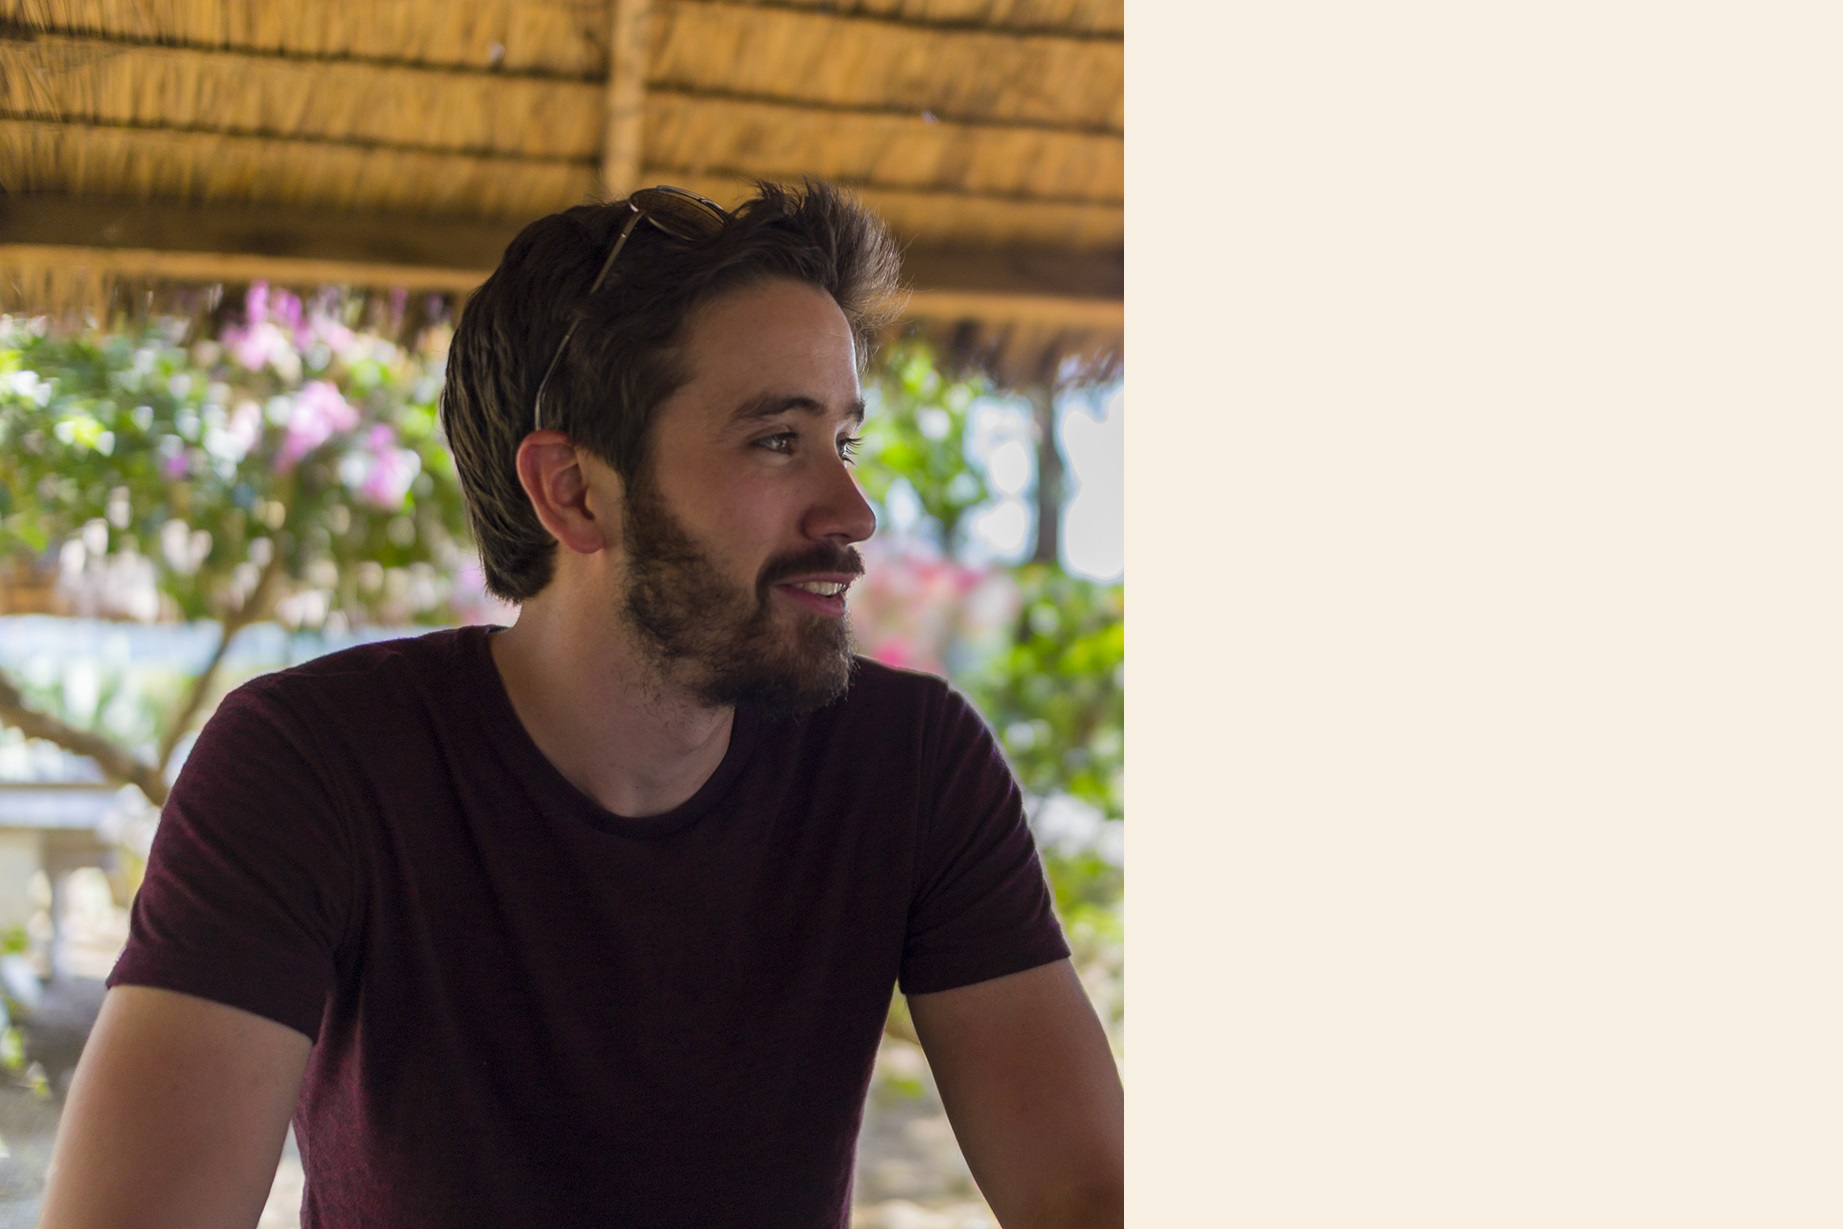
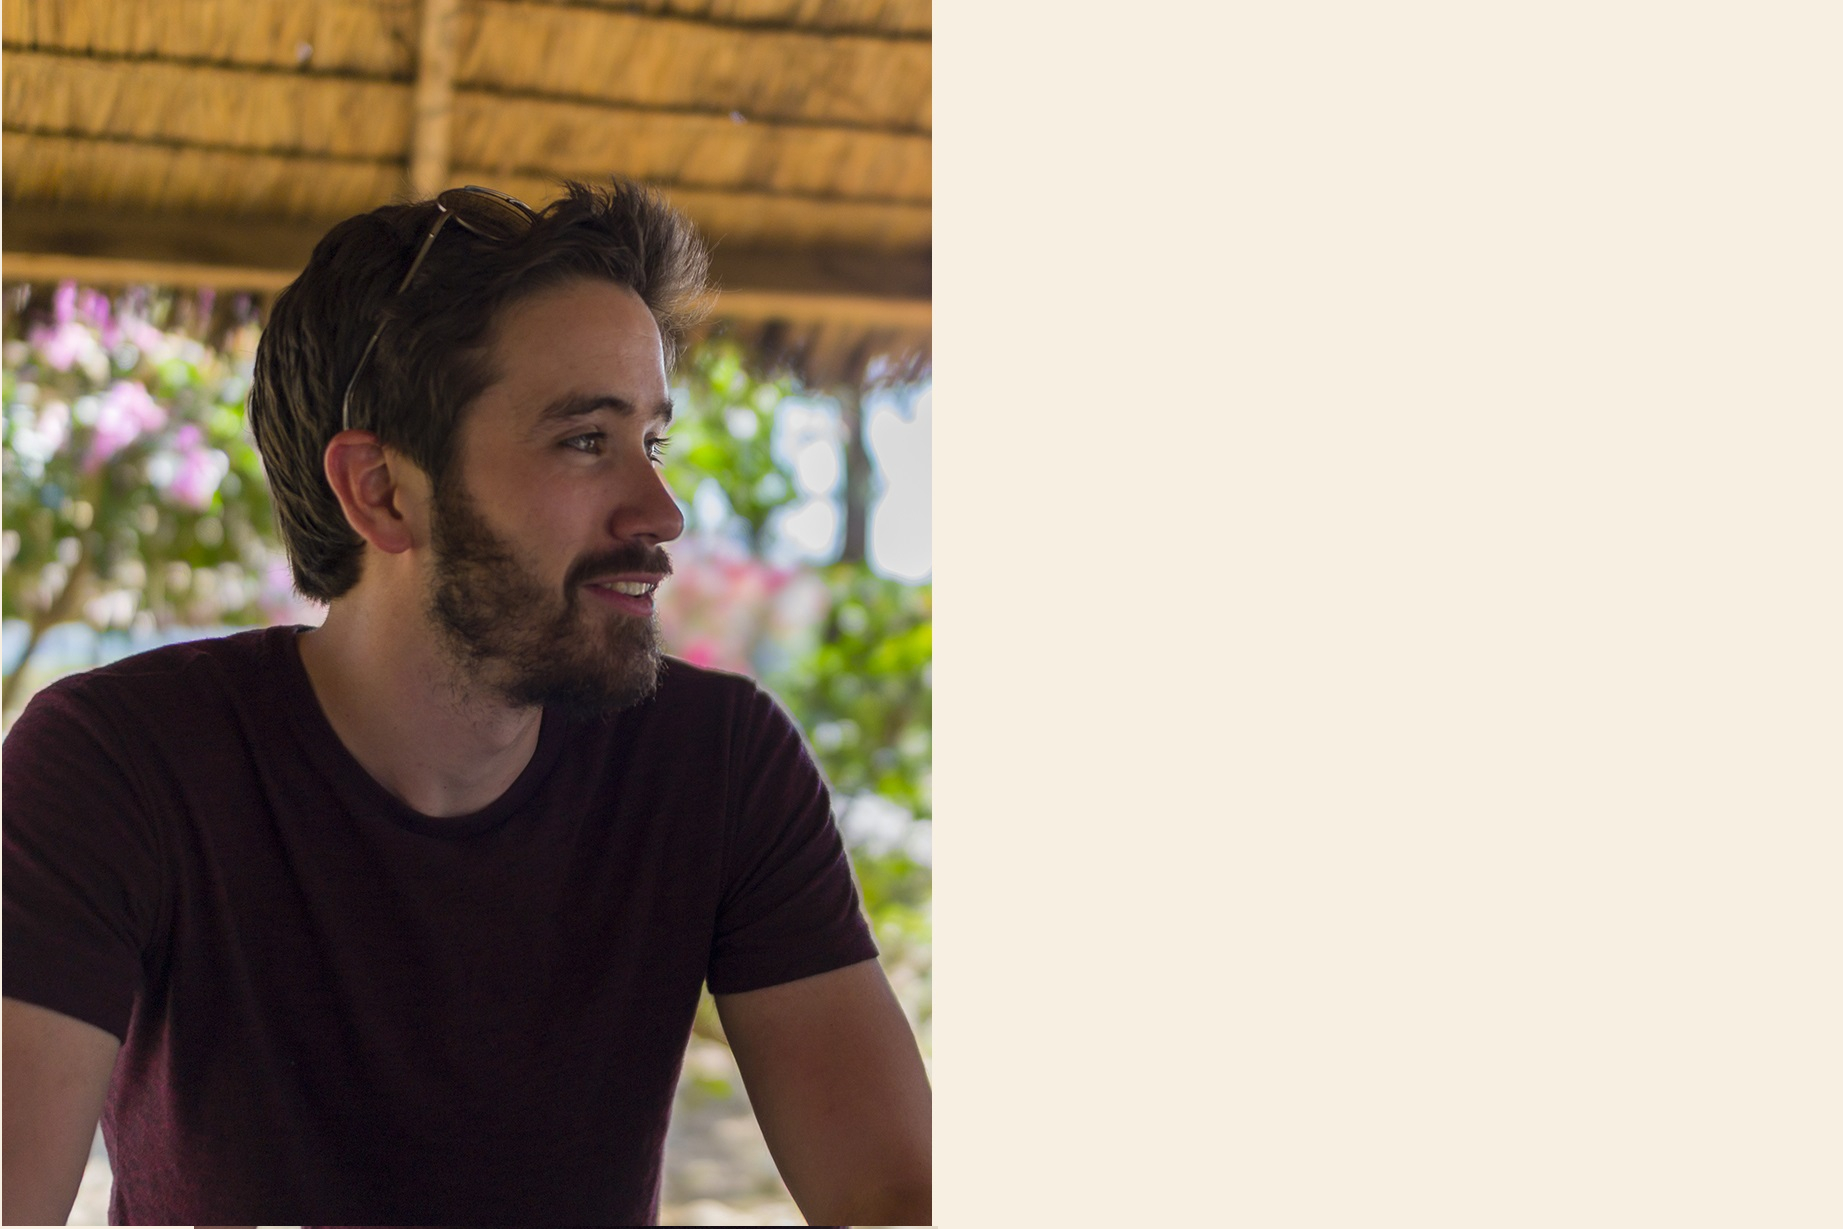
change img aboutme

diff --git a/style_aboutme.css b/style_aboutme.css
@@ -162,7 +162,7 @@ body {
 }
 
 div.contentblock {
-  background-color:white;
+  background-color:rgb(247, 239, 226);
   margin-left:65%;
   margin-top:100px;
   margin-right:10px;
